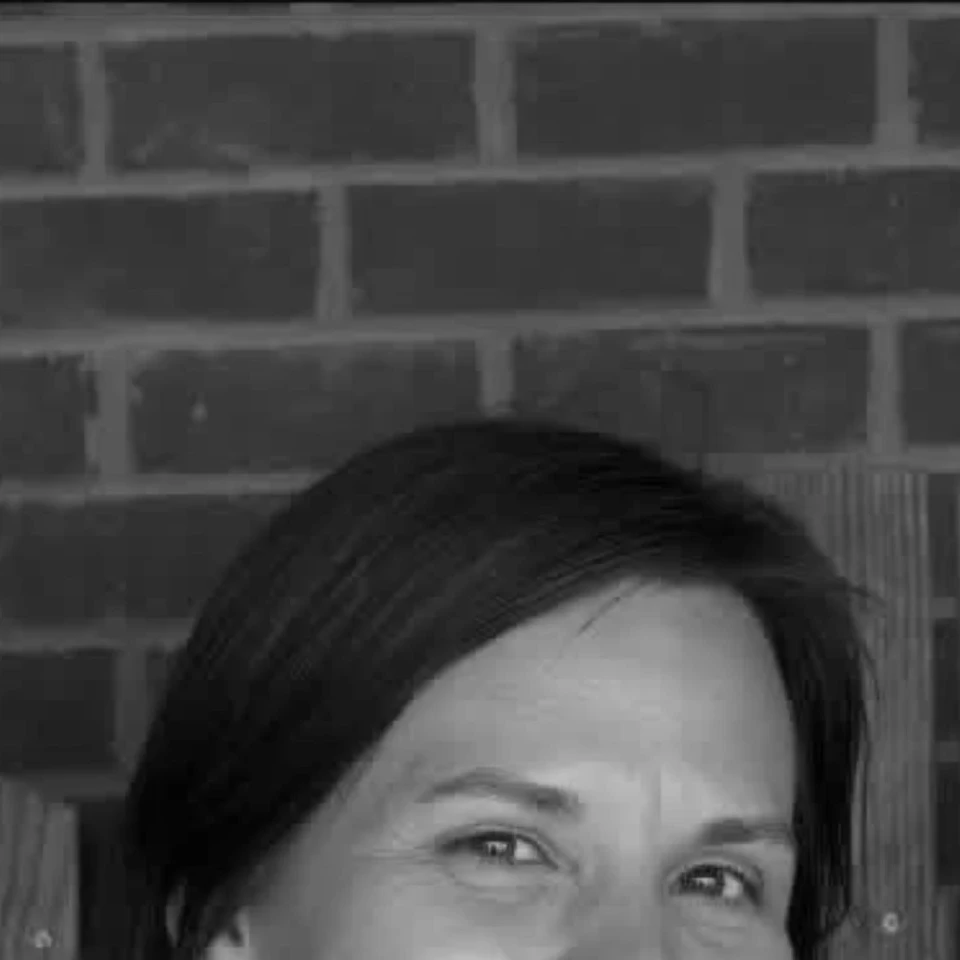
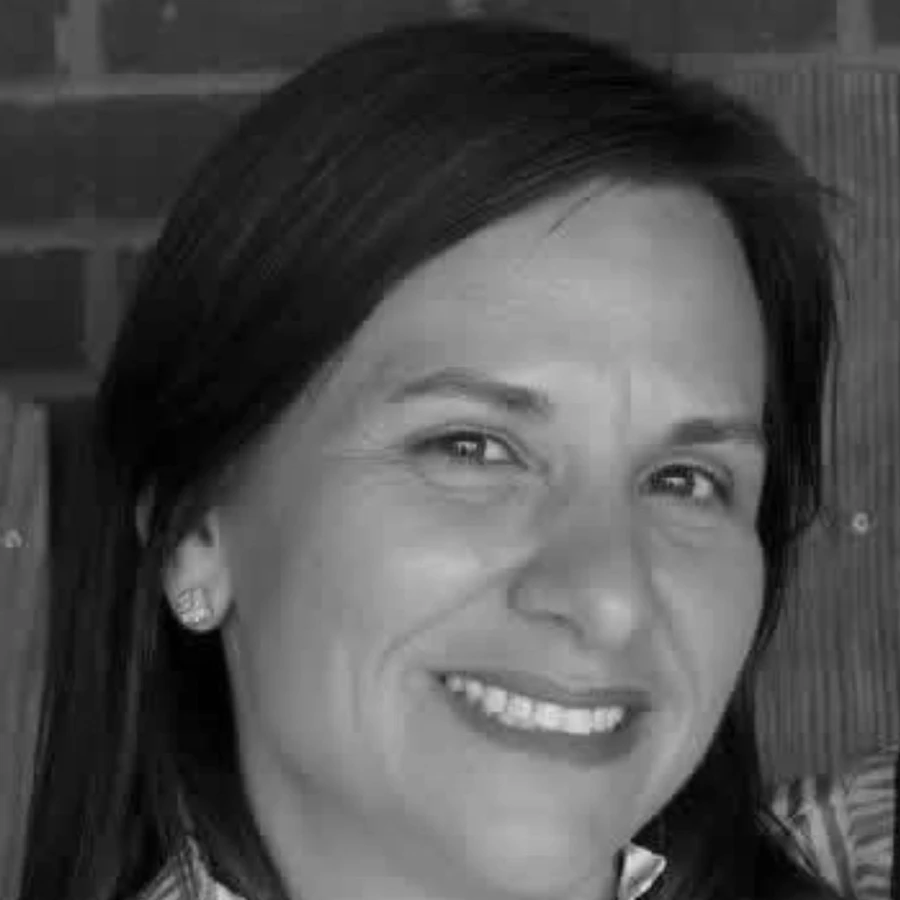
Re-crop Kirsty Jones photo centered on face (y=400, 900px square), reset objectPosition to center

diff --git a/src/pages/TeamPage.tsx b/src/pages/TeamPage.tsx
@@ -34,7 +34,7 @@ const TEAM: {
     bio: 'Kirsty Jones is a businesswoman, an active disciple maker and educator in her community of Haywood County, Tennessee. Her first mission trip was to Asia and she now serves as the Empower Asia Board Secretary and on several other boards.',
     photo: '/Kirsty_Jones.webp',
     initial: 'K',
-    objectPosition: '50% 0%',
+    objectPosition: 'center',
   },
   {
     name: 'Misty Kline',
